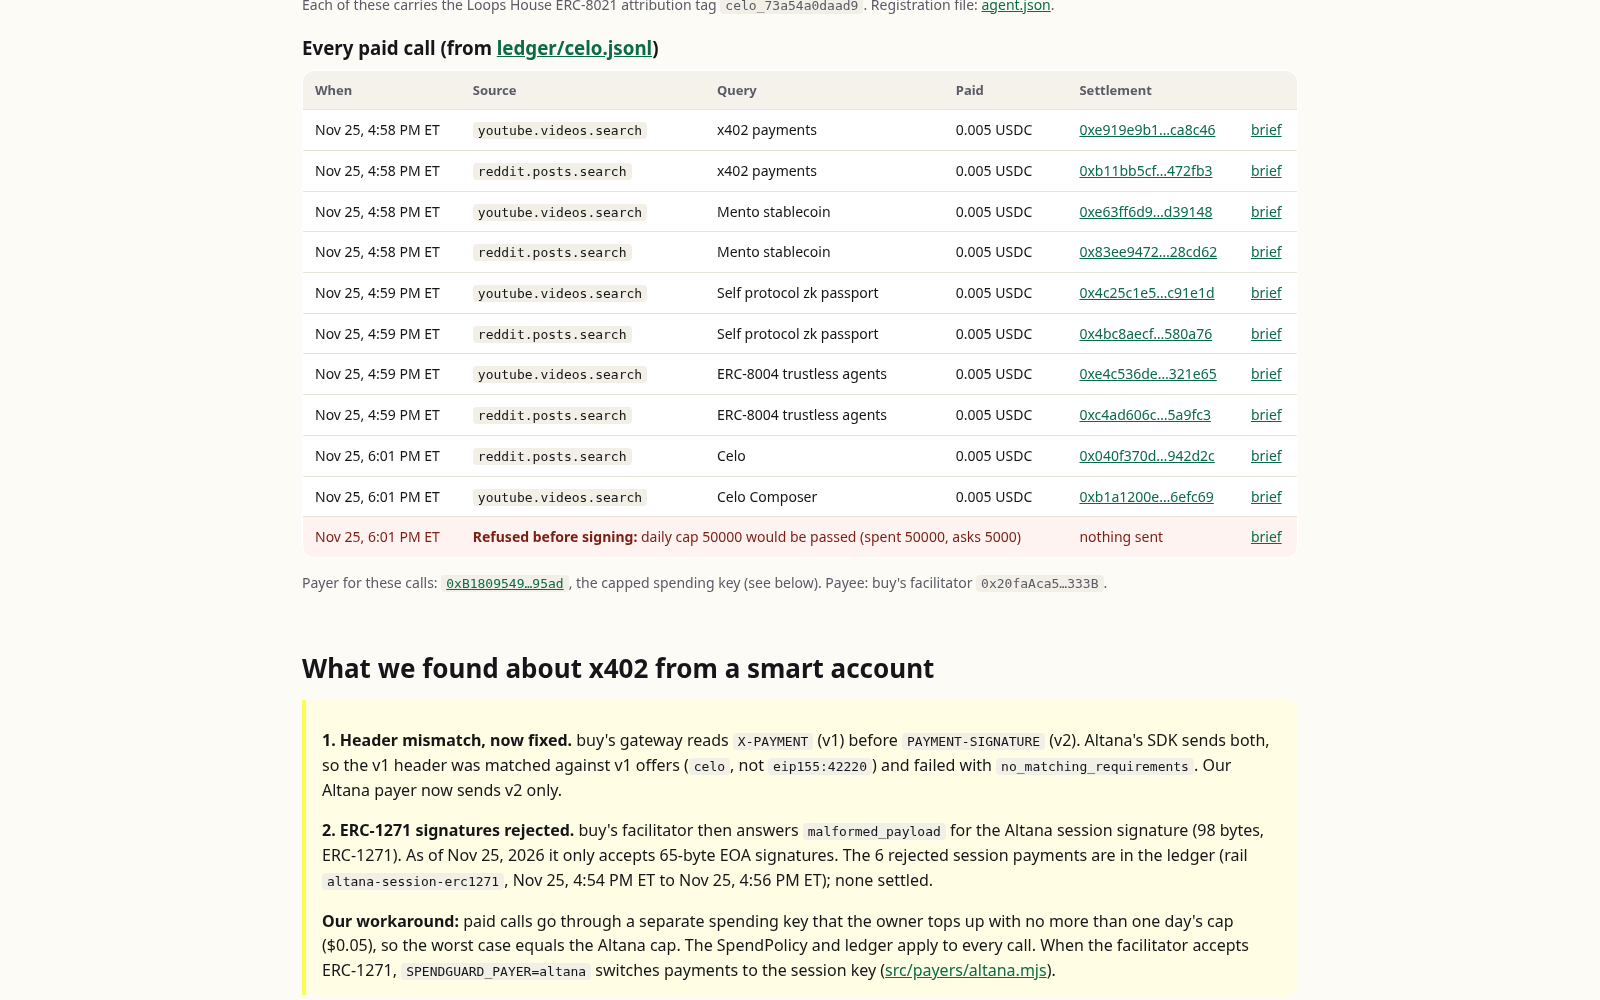
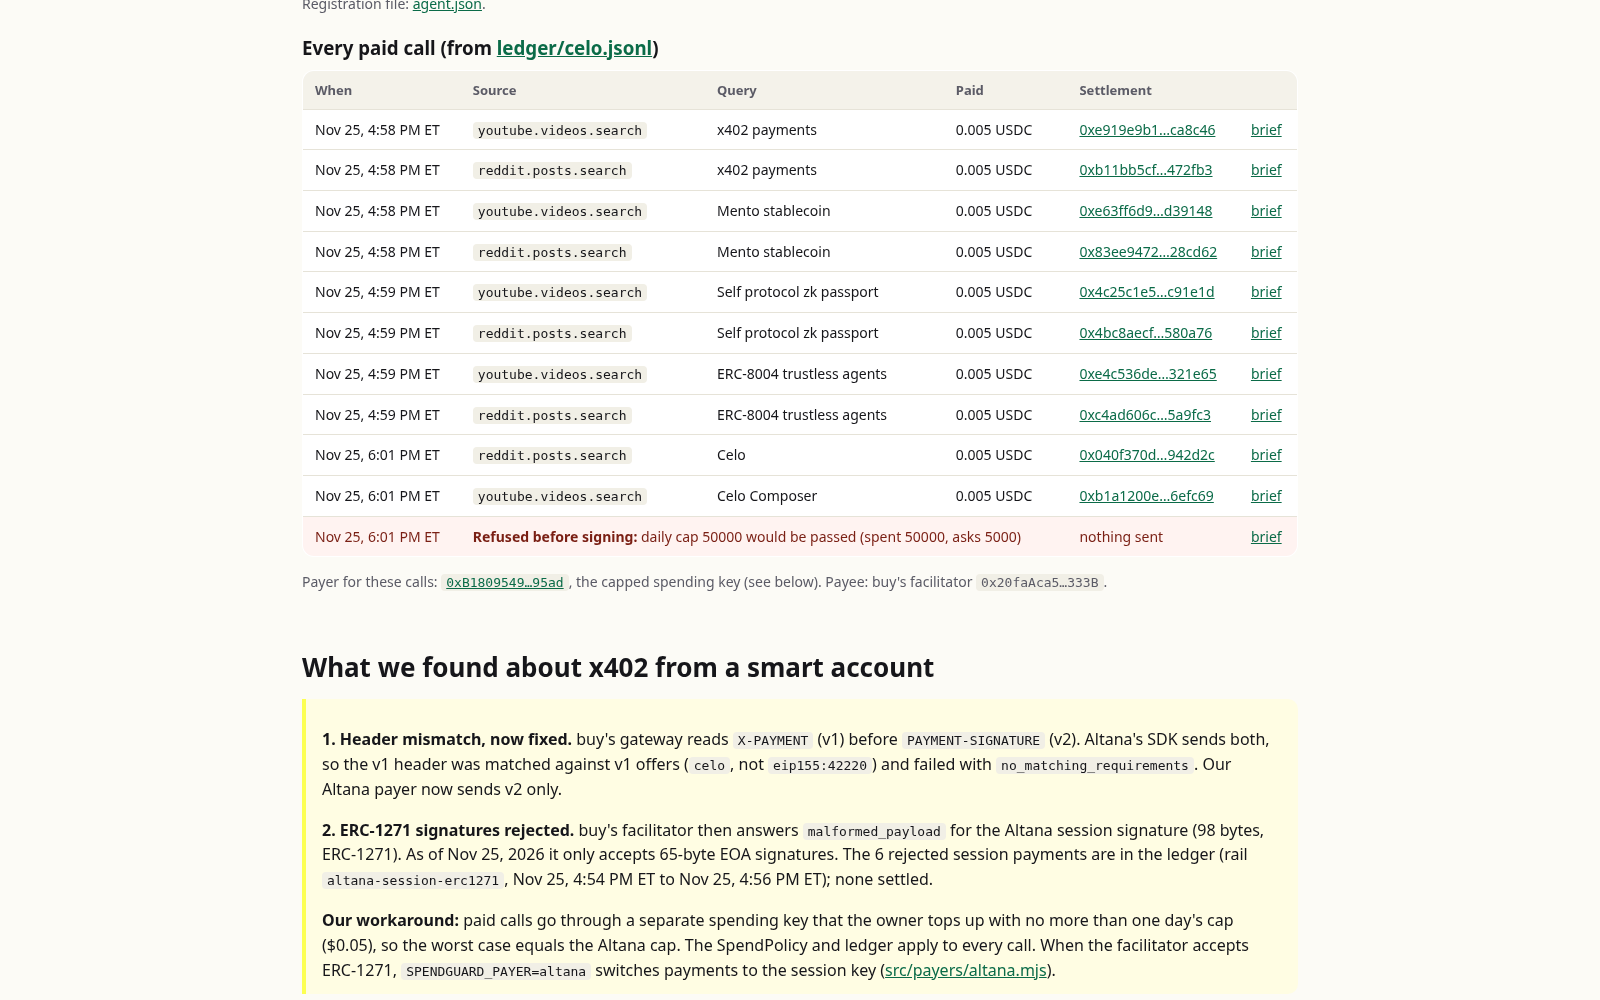
Submission screenshots refreshed from the live page

diff --git a/submission/form.md b/submission/form.md
@@ -8,13 +8,13 @@ Copy-paste text for https://www.loops.house/agents-open-for-business/playground/
 |---|---|
 | Live app URL | https://hexboxtools.github.io/celo-spendguard/ |
 | Video URL (MP4, 1:48) | https://hexboxtools.github.io/celo-spendguard/demo.mp4 |
-| Video backup (GitHub release asset) | https://github.com/HexboxTools/celo-spendguard/releases/download/submission-v1/spendguard-scout-demo.mp4 |
+| Video backup (GitHub release asset, downloads rather than plays inline) | https://github.com/HexboxTools/celo-spendguard/releases/download/submission-v1/spendguard-scout-demo.mp4 |
 | GitHub repo | https://github.com/HexboxTools/celo-spendguard |
 | Agent wallet / payout wallet | `0xC17733165C47f80E56b1c6eD61E8988296CA8f82` |
 | ERC-8004 | agentId **10134**, registry `0x8004A169FB4a3325136EB29fA0ceB6D2e539a432`, tx https://celoscan.io/tx/0xe47d71bb03cc18e736e43b0a3a5d9a31b750db81ec299da6c9205f631feb36e4 |
 | Attribution tag | `celo_73a54a0daad9` |
 | x402 spending key (payer of the paid calls) | `0xB18095490A9f775d22Ffd7ce7b833AaC510A95ad` |
-| Screenshots | `submission/00-cover-1920x1080.png` to `submission/08-interop-finding.png` |
+| Screenshots | `submission/00-cover-1920x1080.png` to `submission/09-brief-with-data-bill.png` (10 PNGs). Raw terminal recording of the demo run: `submission/demo-run.cast` (asciinema) |
 
 ## Team / contacts
 
